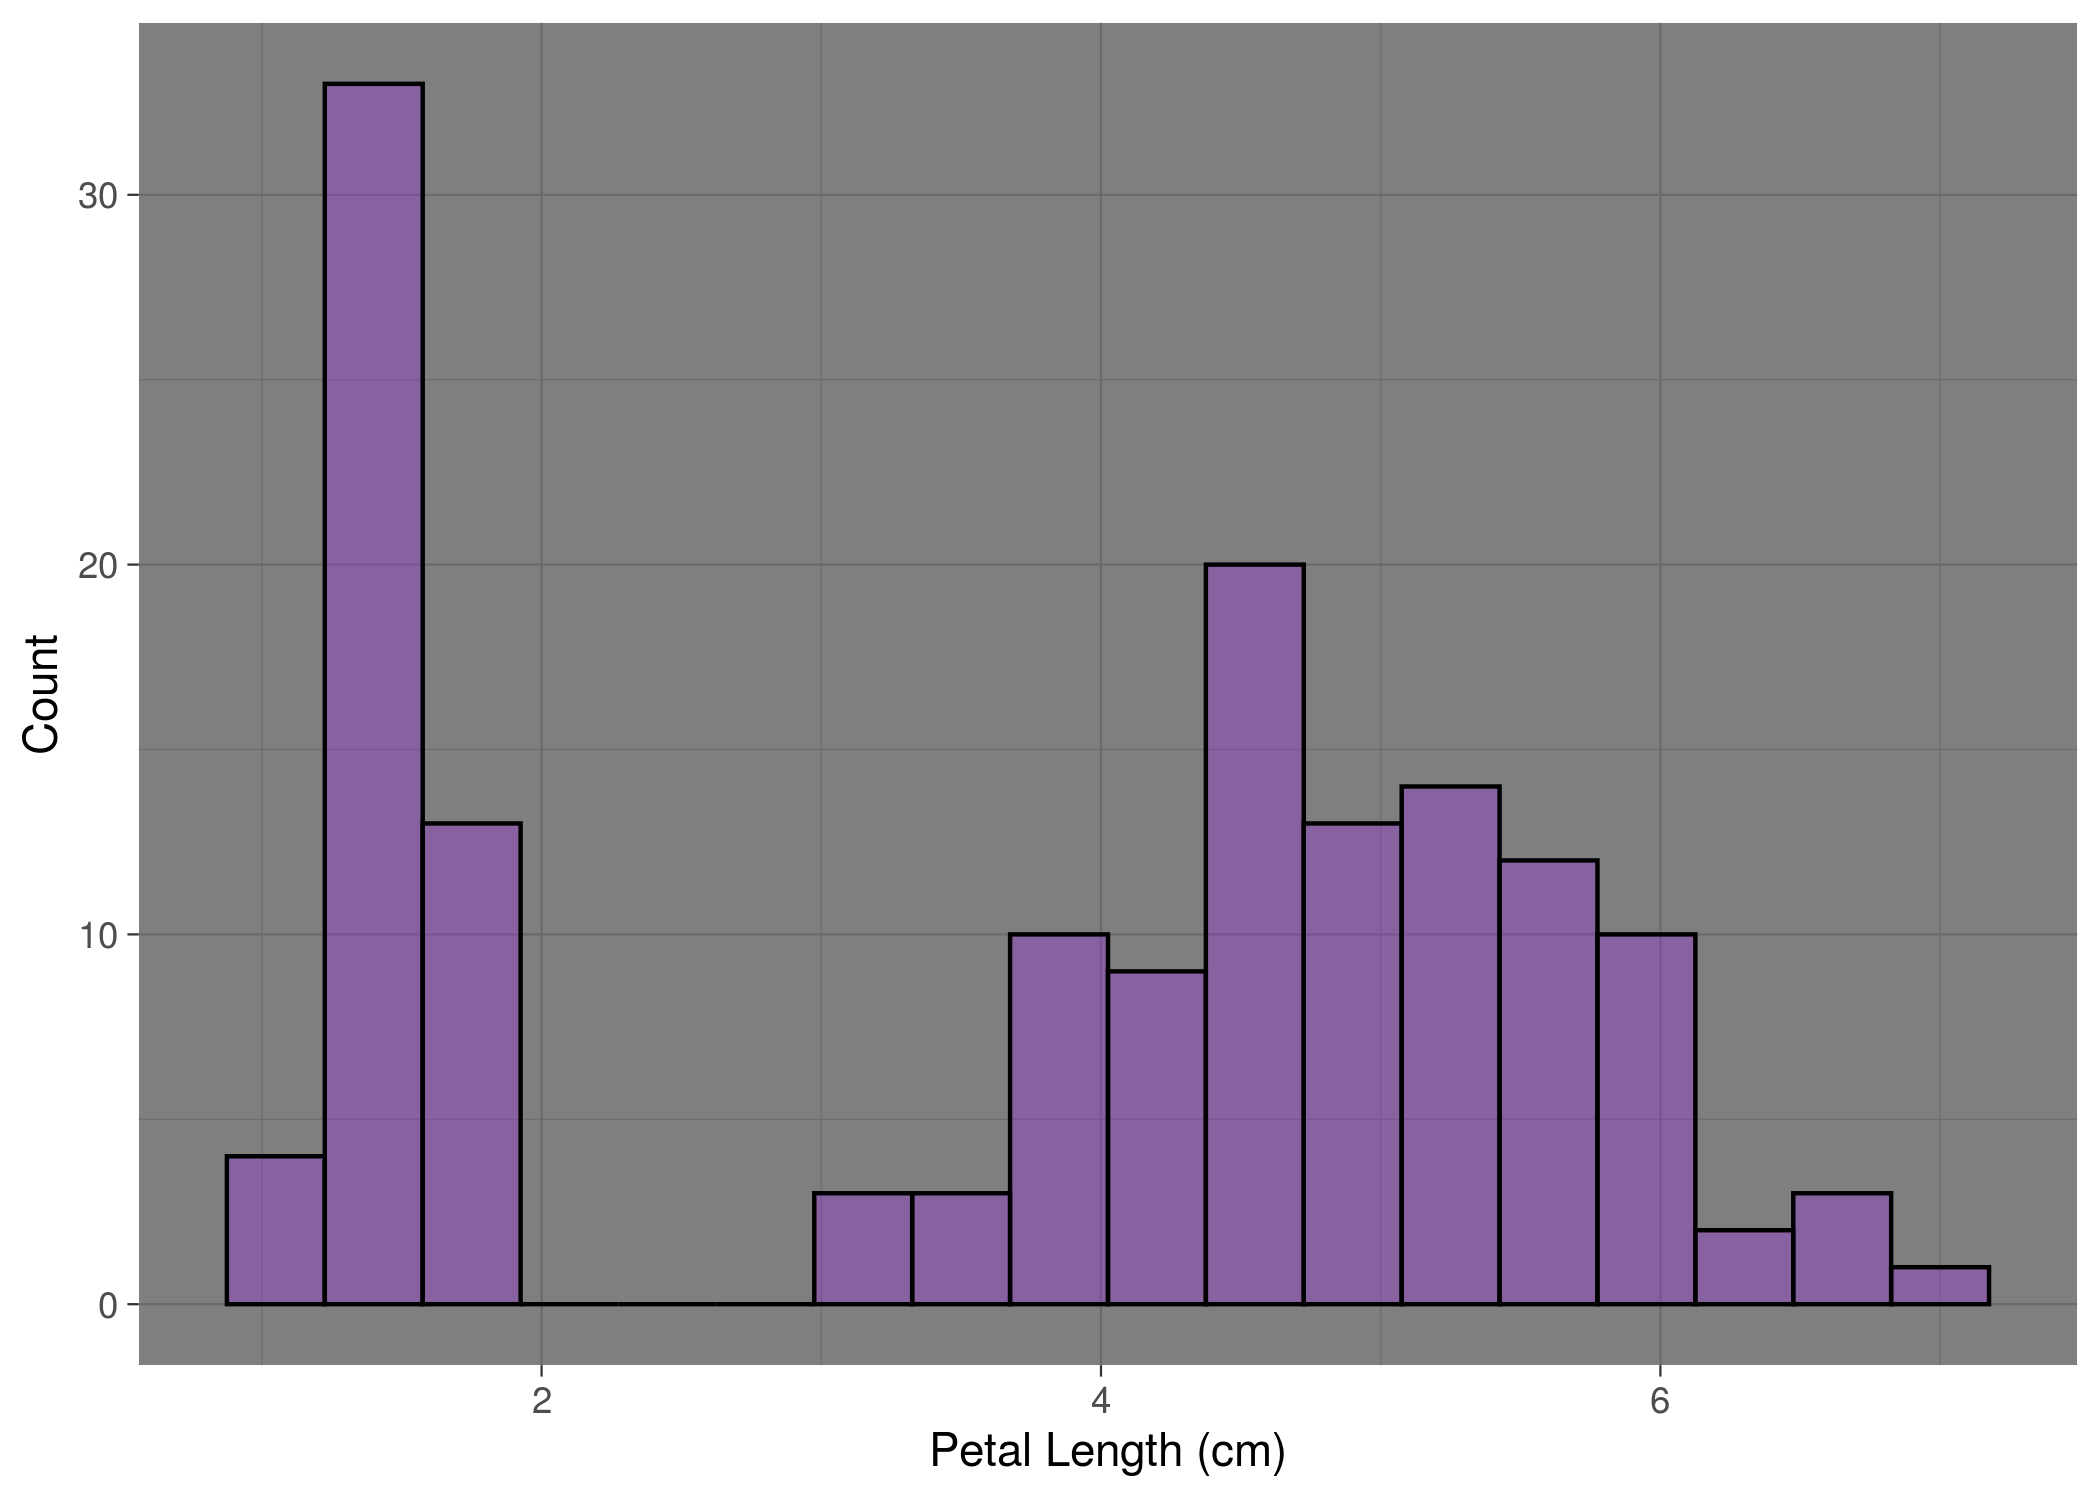
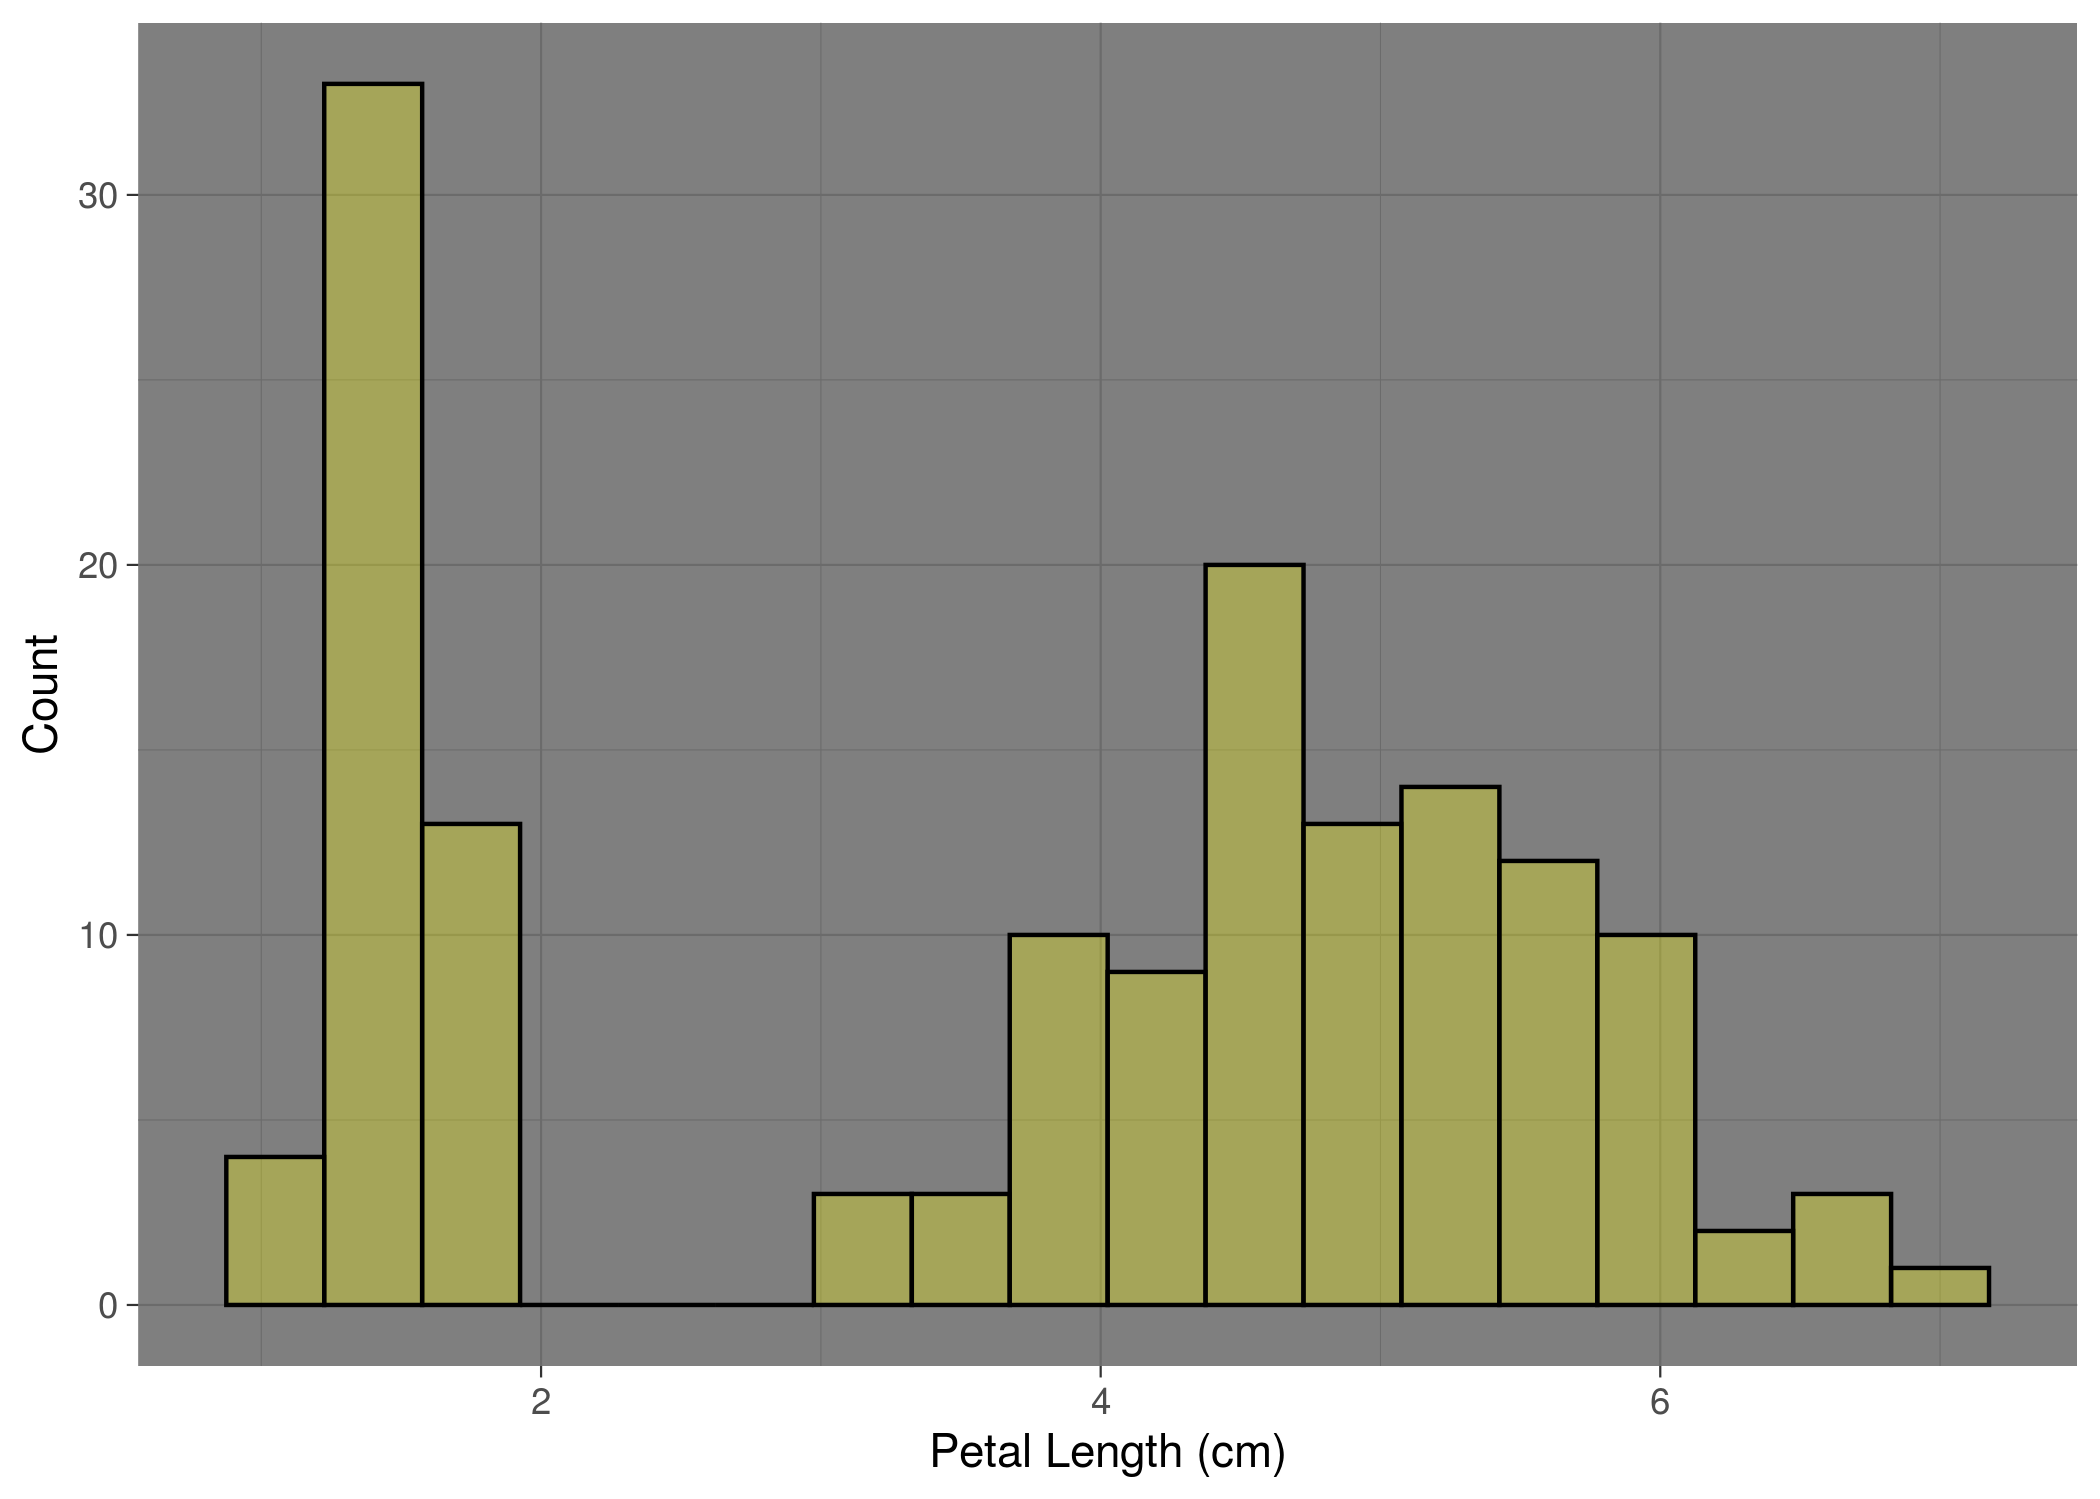
second commit

diff --git a/Practice-Ploting-and-Github.html b/Practice-Ploting-and-Github.html
@@ -366,9 +366,11 @@ summary {
 </div>
 
 
-<pre class="r"><code>ggplot(iris, aes(x=Petal.Length))+geom_histogram(binwidth=0.35,color=&quot;black&quot;, fill = &quot;purple&quot;,alpha=.3)+theme_dark()+labs(x=&quot;Petal Length (cm)&quot;,y=&quot;Count&quot;,tittle=&quot;Count Vs Petal Length (cm)&quot;) -&gt;Iris_plot
+<pre class="r"><code>ggplot(iris, aes(x=Petal.Length))+geom_histogram(binwidth=0.35,color=&quot;black&quot;, fill = &quot;yellow&quot;,alpha=.3)+theme_dark()+labs(x=&quot;Petal Length (cm)&quot;,y=&quot;Count&quot;,tittle=&quot;Count Vs Petal Length (cm)&quot;) -&gt;Iris_plot
 
-ggsave(&quot;practice_plot.png&quot;, Iris_plot)</code></pre>
+Iris_plot</code></pre>
[1 lines of base64/hex data omitted]
+<pre class="r"><code>ggsave(&quot;practice_plot.png&quot;, Iris_plot)</code></pre>
 <pre><code>## Saving 7 x 5 in image</code></pre>
 
 
